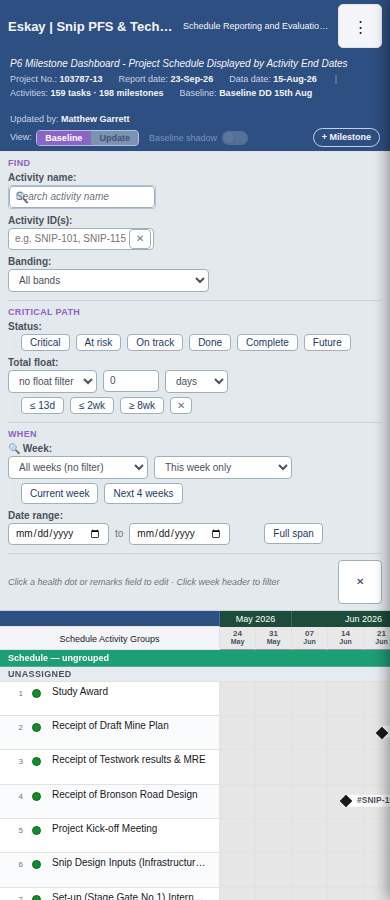
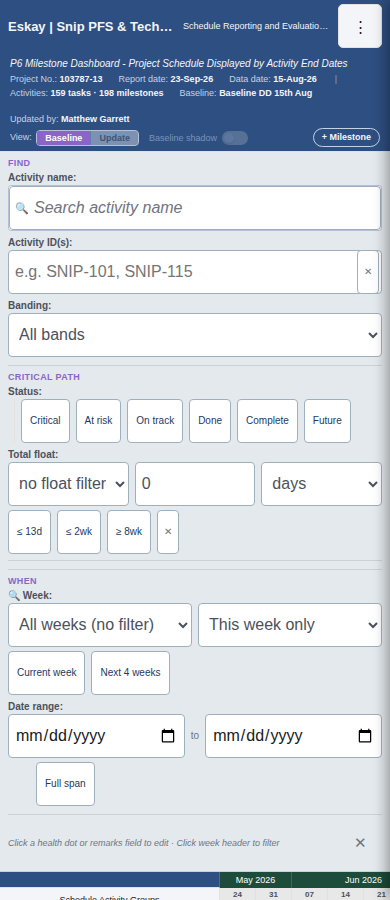
D-15a2: fix four Top filter bar defects from the D-15a screenshots
1. Search icon overlap: the shared #top-filter-bar input[type="text"]
   padding rule (id+attribute specificity) was overriding the search box's
   own padding to a flat 4px 6px, putting the placeholder text under the
   magnifier. A higher-specificity rule scoped to .sticky-search-box
   input[type="text"] restores real left/right padding, measured against
   the icon's actual right edge plus a 4px margin.

2. Touch sizing and phone width: added a #top-filter-bar-scoped
   @media (pointer:coarse) block giving every input/select/button in the
   bar a 44px minimum height and 16px+ font-size on inputs/selects
   (iOS zoom-on-focus). Added a @media (max-width:767px) block: every
   input/select goes full width; the three multi-control fields (Total
   float, Week, Date range) get a new .tfb-fld-grid class whose children
   flex-grow to fill the row, pushing their quick-button groups onto their
   own wrapping row beneath.

3. The footer close button (.tfb-hide) was styled off .filter-btn's
   filled/bordered tokens. It is now borderless, using
   --color-btn-icon-hover-bg/-pressed-bg for hover/pressed only, matching
   the other panel close controls' glyph size.

4. Desktop (>=1280px) Find row: the 4-column equal grid spread each short
   field (search box, two selects, an ID list) across a full column,
   pushing labels away from their controls. Find now flows as compact
   label+control units with one consistent gap; Critical path and When
[…]

diff --git a/Projects/P6-Milestone-Dashboard/src/milestone-dashboard.html b/Projects/P6-Milestone-Dashboard/src/milestone-dashboard.html
@@ -398,6 +398,14 @@ body.cv-open{margin-right:300px}
 .sticky-search-box input{display:block;width:100%;box-sizing:border-box;
   font-size:var(--text-sm);border:1px solid transparent;background:transparent;
   color:var(--color-text-on-panel);padding:var(--space-2) 22px var(--space-2) 21px}
+/* D-15a2: the shared #top-filter-bar input[type="text"] rule further down
+   (same id+attribute specificity, later in source) was overriding this
+   padding to a flat 4px 6px, which put the placeholder text directly under
+   the icon. Icon measured at right:19px from the box's left edge (left:6px
+   plus an 11px glyph); this needs id+class+attribute specificity to win
+   regardless of source order, and 24px clears the icon with the +4px margin
+   the D-15a2 probe checks for. */
+#top-filter-bar .sticky-search-box input[type="text"]{padding-left:24px;padding-right:22px}
 .sticky-search-box input::placeholder{color:var(--color-text-on-panel-muted);opacity:.85;font-style:italic}
 .sticky-search-clear{position:absolute;right:3px;top:50%;transform:translateY(-50%);
   border:none;background:transparent;color:var(--color-text-on-panel-muted);cursor:pointer;
@@ -815,7 +823,17 @@ input[type=range]{width:110px;cursor:pointer}
   #top-filter-bar #tfb-find .tfb-fields{grid-template-columns:repeat(2,minmax(0,1fr))}
 }
 @media (min-width:1280px){
-  #top-filter-bar #tfb-find .tfb-fields{grid-template-columns:repeat(4,minmax(0,1fr))}
+  /* D-15a2: Find's fields are short (a search box, two selects, an ID list),
+     so the equal 4-column grid gave each one a quarter of a wide desktop row,
+     which is what spread "Activity ID(s):" ~100px from its own field and left
+     Banding stretched into empty space on the right. Critical path and When
+     keep the grid below (theirs are long, multi-control fields that want the
+     row); Find instead flows as compact label+control units, one consistent
+     gap between them, sized to content rather than to a column. */
+  #top-filter-bar #tfb-find .tfb-fields{display:flex;flex-wrap:wrap;
+    column-gap:var(--space-5);row-gap:var(--space-3)}
+  #top-filter-bar #tfb-find .tfb-group{flex:0 0 auto}
+  #top-filter-bar #tfb-find .tfb-group>label{flex:0 0 auto}
 }
 /* One field: label, then its control cluster. Stacked (label above control)
    under 768px so nothing has to shrink to fit a label beside it; a fixed
@@ -932,14 +950,85 @@ input[type=range]{width:110px;cursor:pointer}
 #top-filter-bar .filter-btn{font-size:var(--text-sm);padding:var(--space-2) var(--space-4);border-radius:4px;border:1px solid var(--color-btn-secondary-outline);background:var(--color-btn-secondary-bg);cursor:pointer;color:var(--color-btn-secondary-text);font-weight:500}
 #top-filter-bar .filter-btn:hover{background:var(--color-btn-secondary-hover-bg)}
 #top-filter-bar .filter-btn:active{background:var(--color-btn-secondary-pressed-bg)}
-#top-filter-bar .tfb-hide{border:1px solid var(--color-btn-secondary-outline);background:var(--color-btn-secondary-bg);
-  color:var(--color-btn-secondary-text);border-radius:4px;cursor:pointer;font-size:var(--text-sm);line-height:1;padding:var(--space-2) var(--space-3);flex:0 0 auto}
-#top-filter-bar .tfb-hide:hover{background:var(--color-btn-secondary-hover-bg)}
+/* D-15a2: this was styled off .filter-btn's tokens (a filled, bordered
+   secondary button), which is right for a labelled action but reads as a
+   heavy square for an icon-only close control. It now uses the same
+   borderless pattern and --color-btn-icon-* tokens as .icon-btn: no border,
+   no fill at rest, hover/pressed backgrounds only. The 28px/44px hit-target
+   minimum and flex centering it already carries come from the shared
+   .icon-btn,...,.tfb-hide rule above; font-size here just matches the
+   other panel close controls' glyph size (.fb-close is 15px). */
+#top-filter-bar .tfb-hide{border:none;background:none;
+  color:var(--color-text-muted);border-radius:4px;cursor:pointer;font-size:15px;line-height:1;padding:4px;flex:0 0 auto}
+#top-filter-bar .tfb-hide:hover{background:var(--color-btn-icon-hover-bg)}
+#top-filter-bar .tfb-hide:active{background:var(--color-btn-icon-pressed-bg)}
 #top-filter-bar .filter-info{font-size:var(--text-xs);color:var(--color-text-muted);font-style:italic}
 .tfb-range-sep{font-size:var(--text-sm);color:var(--color-text-muted)}
 /* Hidden rather than removed, so clearing the range does not reflow the row
    and shift every control after it sideways. */
 #btn-clear-date-range{visibility:hidden}
+
+/* D-15a2: touch sizing. Every text/number/date input and select in the bar
+   was ~22-23px tall regardless of pointer type, and iOS zooms the page on
+   focus for any text input under 16px. Scoped to the bar's own field
+   elements, not the shared .icon-btn list, because those already carry their
+   own 44px minimum (line ~1832) and stretching THEM to 44px inflates the flex
+   row they sit in (the D-15a "empty gap" trap, documented above at
+   .fb-input-clear-row). Buttons that are ordinary flex siblings (chips,
+   .filter-btn, the two group-level field-clears) get the same 44px minimum
+   plus flex centering, since nothing else in their row constrains them. */
+@media (pointer:coarse){
+  #top-filter-bar select,#top-filter-bar input[type="text"],
+  #top-filter-bar input[type="number"],#top-filter-bar input[type="date"]{
+    min-height:44px;font-size:16px}
+  #top-filter-bar .toggle-btn,#top-filter-bar .filter-btn,
+  #top-filter-bar .fb-field-clear,#top-filter-bar .sticky-search-clear{
+    min-height:44px;display:inline-flex;align-items:center;justify-content:center}
+}
+
+/* D-15a2: phone width. Every field's input/select goes full width (the label
+   already sits above it, stacked, below 768px). The three multi-control
+   fields (Total float op/value/unit; Week select/mode; Date from/to) are the
+   exception: stacking each one below the last would leave three lines for
+   what reads as a single control, so their row shares the width evenly
+   instead, sized by their own content rather than forced to 100% each. Quick
+   buttons (float presets, the crit clear; week presets; Full span) keep their
+   natural width and wrap onto their own row beneath, left-aligned: giving
+   the three input/select controls flex-grow:1 at a small flex-basis is
+   enough on its own to push everything else past the end of that first line
+   without hand-picking a break point. */
+@media (max-width:767px){
+  #top-filter-bar input[type="text"],#top-filter-bar input[type="number"],
+  #top-filter-bar input[type="date"],#top-filter-bar select{width:100%}
+  /* The single-control fields' wrappers (the search box, the ID clear-row)
+     are flex children of .tfb-fld-ctrl with no width of their own, so they
+     were shrink-wrapping to the input's browser-default size instead of
+     stretching, and the 100% above resolved against THAT circular auto
+     width rather than the field's real width. Give the wrapper itself the
+     full width so the input's 100% has something real to be 100% of. */
+  #top-filter-bar .sticky-search-box,#top-filter-bar .fb-input-clear-row{width:100%}
+
+  #top-filter-bar .tfb-fld-grid{display:flex;flex-wrap:wrap;
+    column-gap:var(--space-3);row-gap:var(--space-2);align-items:center}
+  #top-filter-bar .tfb-fld-grid>select,
+  #top-filter-bar .tfb-fld-grid>input{flex:1 1 90px;min-width:0;width:auto}
+  #top-filter-bar #filter-float-val{width:auto}
+  /* When's two fields hold only TWO row-1 controls each (week select+mode;
+     date-from+date-to), so a 90px basis left enough spare room on the row
+     for the quick-button group to squeeze on beside them instead of
+     wrapping beneath it: measured 54%/70% of the field's width used
+     instead of filling it. A basis just over half the row leaves no room
+     for anything else to join, so the quick buttons wrap reliably. Critical
+     path's three-control row already fills the width at 90px basis and
+     keeps it. */
+  #top-filter-bar #tfb-when .tfb-fld-grid>select,
+  #top-filter-bar #tfb-when .tfb-fld-grid>input{flex:1 1 45%}
+  #top-filter-bar .tfb-fld-grid>.fb-inline-group{margin-left:0;padding-left:0;
+    border-left:none;flex:0 0 auto}
+  #top-filter-bar .tfb-fld-grid>.fb-field-clear,
+  #top-filter-bar .tfb-fld-grid>.filter-btn,
+  #top-filter-bar .tfb-fld-grid>.tfb-range-sep{flex:0 0 auto}
+}
 /* Step 3 of setup uses the same two controls on the settings drawer's panel
    background, which is a different surface from the filter bar. */
 #range-wrap-section input[type="date"]{font-size:10px;padding:2px 4px;border-radius:3px;
@@ -2336,7 +2425,7 @@ textarea:focus-visible,[tabindex]:focus-visible{
    </div>
    <div class="tfb-group">
     <label>Total float:</label>
-    <div class="tfb-fld-ctrl">
+    <div class="tfb-fld-ctrl tfb-fld-grid">
      <select id="filter-float-op" onchange="applyFilter()" title="Which side of the threshold to keep" aria-label="Float comparison">
       <option value="">no float filter</option>
       <option value="le">at or below</option>
@@ -2367,7 +2456,7 @@ textarea:focus-visible,[tabindex]:focus-visible{
   <div class="tfb-fields">
    <div class="tfb-group">
     <label>&#128269; Week:</label>
-    <div class="tfb-fld-ctrl">
+    <div class="tfb-fld-ctrl tfb-fld-grid">
      <select id="week-filter" onchange="applyFilter()">
       <option value="">All weeks (no filter)</option>
      </select>
@@ -2388,7 +2477,7 @@ textarea:focus-visible,[tabindex]:focus-visible{
    </div>
    <div class="tfb-group">
     <label>Date range:</label>
-    <div class="tfb-fld-ctrl">
+    <div class="tfb-fld-ctrl tfb-fld-grid">
      <!-- oninput AND onchange. change on a date field does not fire until the
           field is committed and left, so a date set with the picker or the
           spinner sat there doing nothing until the user clicked elsewhere. input

diff --git a/Projects/P6-Milestone-Dashboard/tools/d15a_check.py b/Projects/P6-Milestone-Dashboard/tools/d15a_check.py
@@ -21,6 +21,29 @@ result rather than a source read (CLAUDE.md "Verification standard"):
       in this engine, so the bar rendered at the literal 160px fallback
       regardless of its real content height).
 
+D-15a2 adds five more, fixing the follow-up regressions the orchestrator
+found from the D-15a screenshots:
+
+  (f) the Activity name input's computed padding-left is at least the search
+      icon's right edge minus the input's left edge, plus 4px (checks the
+      icon does not sit over the placeholder text). Run at every viewport,
+      since the icon and the field do not resize by width.
+  (g) at 390px, with the page's own `@media (pointer:coarse)` rules forced on
+      (real headless Chrome reports a fine pointer, so this cannot rely on
+      the media query matching on its own; see `render_coarse` below), every
+      visible input, select and button inside the bar has computed height
+      >= 43px (the 44px touch standard, 1px tolerance) and every input/select
+      has font-size >= 16px (the iOS zoom-on-focus threshold).
+  (h) at 390px, plain (no forced pointer), every visible input/select has
+      width >= 90% of its own field container (.tfb-fld-ctrl), except where
+      more than one input/select shares a field container (Total float,
+      Week, Date range) - there, their widths must SUM to >= 90% of it.
+  (i) the footer close button (#btn-filter-hide) has computed border-style
+      'none' or border-width 0.
+  (j) at 1440px, for each field inside #tfb-find (Find), the horizontal gap
+      between the label's right edge and its field container's left edge is
+      <= 16px.
+
 Uses headless_shell, not the full `chrome --headless` binary: the latter
 floors its internal viewport at 500px wide in this environment no matter
 what --window-size asks for (window.innerWidth reads 500 for any smaller
@@ -45,8 +68,40 @@ sys.path.insert(0, str(pathlib.Path(__file__).resolve().parent))
 from import_check import find_chrome  # noqa: E402
 
 OUT_RE = re.compile(r'<pre id="d15a-out">(.*?)</pre>', re.S)
+COARSE_OUT_RE = re.compile(r'<pre id="d15a-coarse-out">(.*?)</pre>', re.S)
 
 VIEWPORTS = [390, 768, 1440]
+
+
+def extract_coarse_css(page_text):
+    """Pull every `@media (pointer:coarse){...}` block's inner rules out of
+    the page's own <style>, unwrapped from the media condition, so they can
+    be re-injected as always-on rules. headless Chrome has no real coarse
+    pointer to emulate, so the only faithful way to test what those rules DO
+    is to apply the app's own declarations rather than hand-writing new ones
+    that could drift from them. Brace-counted rather than regex-matched
+    end to end, since each block nests one level of braces (its rules)."""
+    css_chunks = []
+    marker = "@media (pointer:coarse)"
+    start = 0
+    while True:
+        idx = page_text.find(marker, start)
+        if idx == -1:
+            break
+        brace_open = page_text.index("{", idx)
+        depth = 0
+        i = brace_open
+        while i < len(page_text):
+            if page_text[i] == "{":
+                depth += 1
+            elif page_text[i] == "}":
+                depth -= 1
+                if depth == 0:
+                    break
+            i += 1
+        css_chunks.append(page_text[brace_open + 1:i])
+        start = i + 1
+    return "\n".join(css_chunks)
 
 PROBE = r"""
 (function(){
@@ -147,6 +202,115 @@ PROBE = r"""
        isFinite(mhPx) && mhPx>=sh-1, mh+' against scrollHeight '+sh+'px');
     if(!wasOpen) bar.classList.remove('open');
 
+    // ---- (f) Activity name input's padding-left clears the search icon ----
+    const nameIcon=bar.querySelector('.sticky-search-icon');
+    const nameInput=document.getElementById('filter-title');
+    if(nameIcon&&nameInput){
+      const ir=nameIcon.getBoundingClientRect(), inr=nameInput.getBoundingClientRect();
+      const padLeft=parseFloat(getComputedStyle(nameInput).paddingLeft);
+      const needed=(ir.right-inr.left)+4;
+      R.notes.namePad={paddingLeft:padLeft,iconRight:ir.right,inputLeft:inr.left,needed:needed};
+      ck('Activity name input padding-left clears the search icon (+4px margin)',
+         padLeft>=needed-0.5, 'padding-left '+padLeft.toFixed(1)+'px, needed >= '+needed.toFixed(1)+'px');
+    }
+
+    // ---- (h) at 390: input/select width >= 90% of its field container,
+    //          summed across a shared multi-control row ----
+    if(window.innerWidth<=390){
+      const byCtrl=new Map();
+      ctrls.forEach(function(el){
+        const ctrl=el.closest('.tfb-fld-ctrl');
+        if(!ctrl) return;
+        if(!byCtrl.has(ctrl)) byCtrl.set(ctrl,[]);
+        byCtrl.get(ctrl).push(el);
+      });
+      const widthResults=[];
+      let widthOk=true;
+      byCtrl.forEach(function(els,ctrl){
+        const cw=ctrl.getBoundingClientRect().width;
+        const sum=els.reduce(function(s,el){ return s+el.getBoundingClientRect().width; },0);
+        const ratio=cw>0?sum/cw:0;
+        const ok=ratio>=0.9;
+        if(!ok) widthOk=false;
+        widthResults.push({ctrl:ctrl.id||ctrl.className,n:els.length,sum:Math.round(sum),
+          containerW:Math.round(cw),ratio:Math.round(ratio*100)});
+      });
+      R.notes.fieldWidths=widthResults;
+      ck('every input/select fills (or, sharing a row, together fill) >=90% of its field container',
+         byCtrl.size>0 && widthOk, JSON.stringify(widthResults));
+    }
+
+    // ---- (j) at 1440: Find label-to-control gap ----
+    if(window.innerWidth>=1280){
+      const findBar=document.getElementById('tfb-find');
+      if(findBar){
+        const gapResults=[];
+        let gapOk=true;
+        findBar.querySelectorAll('.tfb-group').forEach(function(grp){
+          const label=grp.querySelector('label');
+          const ctrl=grp.querySelector('.tfb-fld-ctrl');
+          if(!label||!ctrl) return;
+          const lr=label.getBoundingClientRect(), cr=ctrl.getBoundingClientRect();
+          const gap=cr.left-lr.right;
+          const ok=gap<=16.5;
+          if(!ok) gapOk=false;
+          gapResults.push({label:label.textContent.trim(),gap:Math.round(gap*10)/10});
+        });
+        R.notes.findGaps=gapResults;
+        ck('at 1440px, each Find field\'s label-to-control gap is <=16px',
+           gapResults.length>=3 && gapOk, JSON.stringify(gapResults));
+      }
+    }
+
+    // ---- (i) footer close button is borderless ----
+    const hideBtn=document.getElementById('btn-filter-hide');
+    if(hideBtn){
+      const hcs=getComputedStyle(hideBtn);
+      R.notes.hideBtnBorder={borderStyle:hcs.borderStyle,borderWidth:hcs.borderWidth};
+      ck('#btn-filter-hide is borderless (border-style none or border-width 0)',
+         hcs.borderStyle==='none'||parseFloat(hcs.borderWidth)===0,
+         'border-style '+hcs.borderStyle+', border-width '+hcs.borderWidth);
+    }
+
+    emit();
+  }catch(err){
+    R.checks.push({name:'PROBE THREW',pass:false,detail:String(err&&err.stack||err)});
+    emit();
+  }
+})();
+"""
+
+# ---- (g) coarse-pointer sizing, run only against a coarse-forced render ----
+PROBE_COARSE = r"""
+(function(){
+  const R={checks:[],notes:{}};
+  function ck(n,p,d){ R.checks.push({name:n,pass:!!p,detail:d===undefined?'':String(d)}); }
+  function emit(){ const o=document.createElement('pre'); o.id='d15a-coarse-out';
+    o.textContent=btoa(unescape(encodeURIComponent(JSON.stringify(R))));
+    document.body.appendChild(o); }
+  try{
+    const bar=document.getElementById('top-filter-bar');
+    if(!bar) throw new Error('#top-filter-bar not found');
+    const els=Array.prototype.filter.call(
+      bar.querySelectorAll('input,select,button'),
+      function(el){ return getComputedStyle(el).display!=='none' &&
+                            el.getBoundingClientRect().width>0; });
+    const heightBad=[], fontBad=[];
+    els.forEach(function(el){
+      const r=el.getBoundingClientRect();
+      if(r.height<43) heightBad.push({tag:el.tagName,id:el.id,cls:el.className,h:Math.round(r.height*10)/10});
+      if(el.tagName==='INPUT'||el.tagName==='SELECT'){
+        const fs=parseFloat(getComputedStyle(el).fontSize);
+        if(fs<16) fontBad.push({tag:el.tagName,id:el.id,fontSize:fs});
+      }
+    });
+    R.notes.coarseCount=els.length;
+    R.notes.heightBad=heightBad;
+    R.notes.fontBad=fontBad;
+    ck('coarse pointer: every input/select/button in the bar has height >=44px (-1px tolerance)',
+       els.length>=8 && heightBad.length===0, JSON.stringify(heightBad));
+    ck('coarse pointer: every input/select has font-size >=16px',
+       fontBad.length===0, JSON.stringify(fontBad));
     emit();
   }catch(err){
     R.checks.push({name:'PROBE THREW',pass:false,detail:String(err&&err.stack||err)});
@@ -156,9 +320,14 @@ PROBE = r"""
 """
 
 
-def render(html_path, width, height):
+def render(html_path, width, height, force_coarse=False):
     page = html_path.read_text(encoding="utf-8")
-    out = page.replace("</body>", "<script>\n" + PROBE + "\n</script>\n</body>")
+    probe = PROBE_COARSE if force_coarse else PROBE
+    if force_coarse:
+        coarse_css = extract_coarse_css(page)
+        inject_style = "<style>\n/* d15a_check: pointer:coarse rules re-injected unconditionally */\n" + coarse_css + "\n</style>\n"
+        page = page.replace("</head>", inject_style + "</head>", 1)
+    out = page.replace("</body>", "<script>\n" + probe + "\n</script>\n</body>")
     if out == page:
         sys.exit("Could not find </body> to inject into.")
     with tempfile.TemporaryDirectory() as td:
@@ -170,9 +339,10 @@ def render(html_path, width, height):
              "--dump-dom", tmp.as_uri()],
             capture_output=True, text=True, timeout=120,
         )
-    m = OUT_RE.search(proc.stdout)
+    out_re = COARSE_OUT_RE if force_coarse else OUT_RE
+    m = out_re.search(proc.stdout)
     if not m:
-        sys.exit(f"Probe output not found at {width}px.\n" + proc.stderr[-3000:])
+        sys.exit(f"Probe output not found at {width}px (coarse={force_coarse}).\n" + proc.stderr[-3000:])
     return json.loads(base64.b64decode(m.group(1).strip()).decode("utf-8"))
 
 
@@ -189,6 +359,16 @@ def main():
             print(f"   {k}: {json.dumps(v)}")
         for c in R["checks"]:
             checks.append((f"[{width}px] " + c["name"], c["pass"], c["detail"]))
+
+    # (g): 390px with the page's own pointer:coarse rules forced on.
+    Rc = render(html, 390, 900, force_coarse=True)
+    if Rc.get("err"):
+        print(f"PROBE ERROR (390px coarse):\n{Rc['err']}")
+    print("\n=== 390px (coarse forced) ===")
+    for k, v in Rc.get("notes", {}).items():
+        print(f"   {k}: {json.dumps(v)}")
+    for c in Rc["checks"]:
+        checks.append(("[390px coarse] " + c["name"], c["pass"], c["detail"]))
 
     print()
     fails = 0
